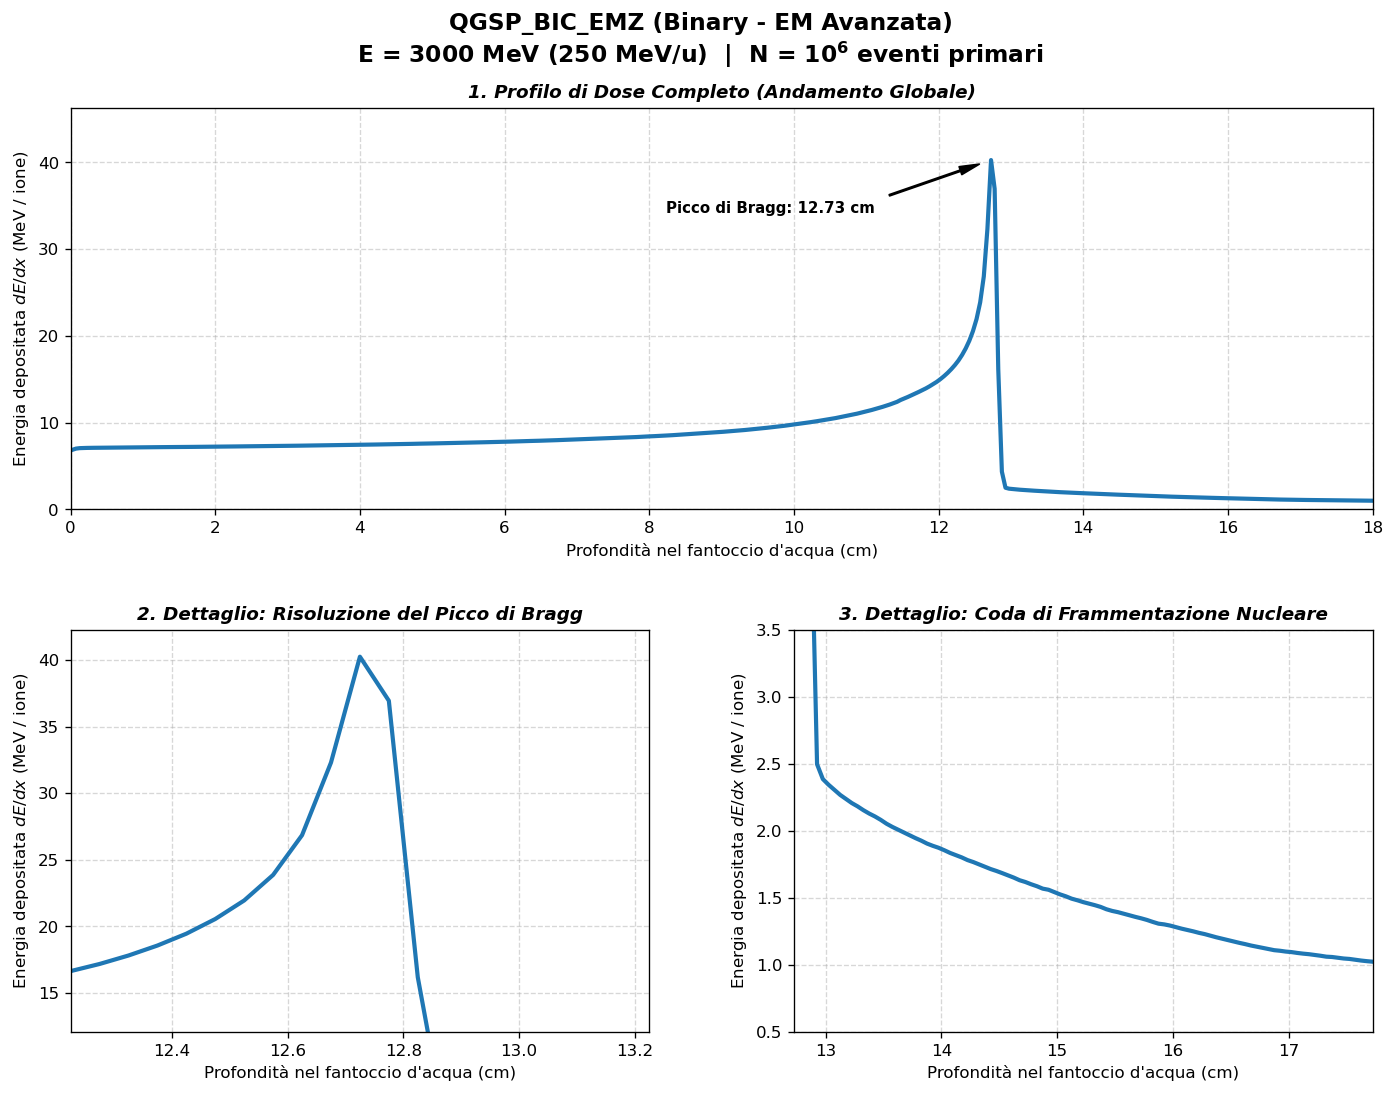
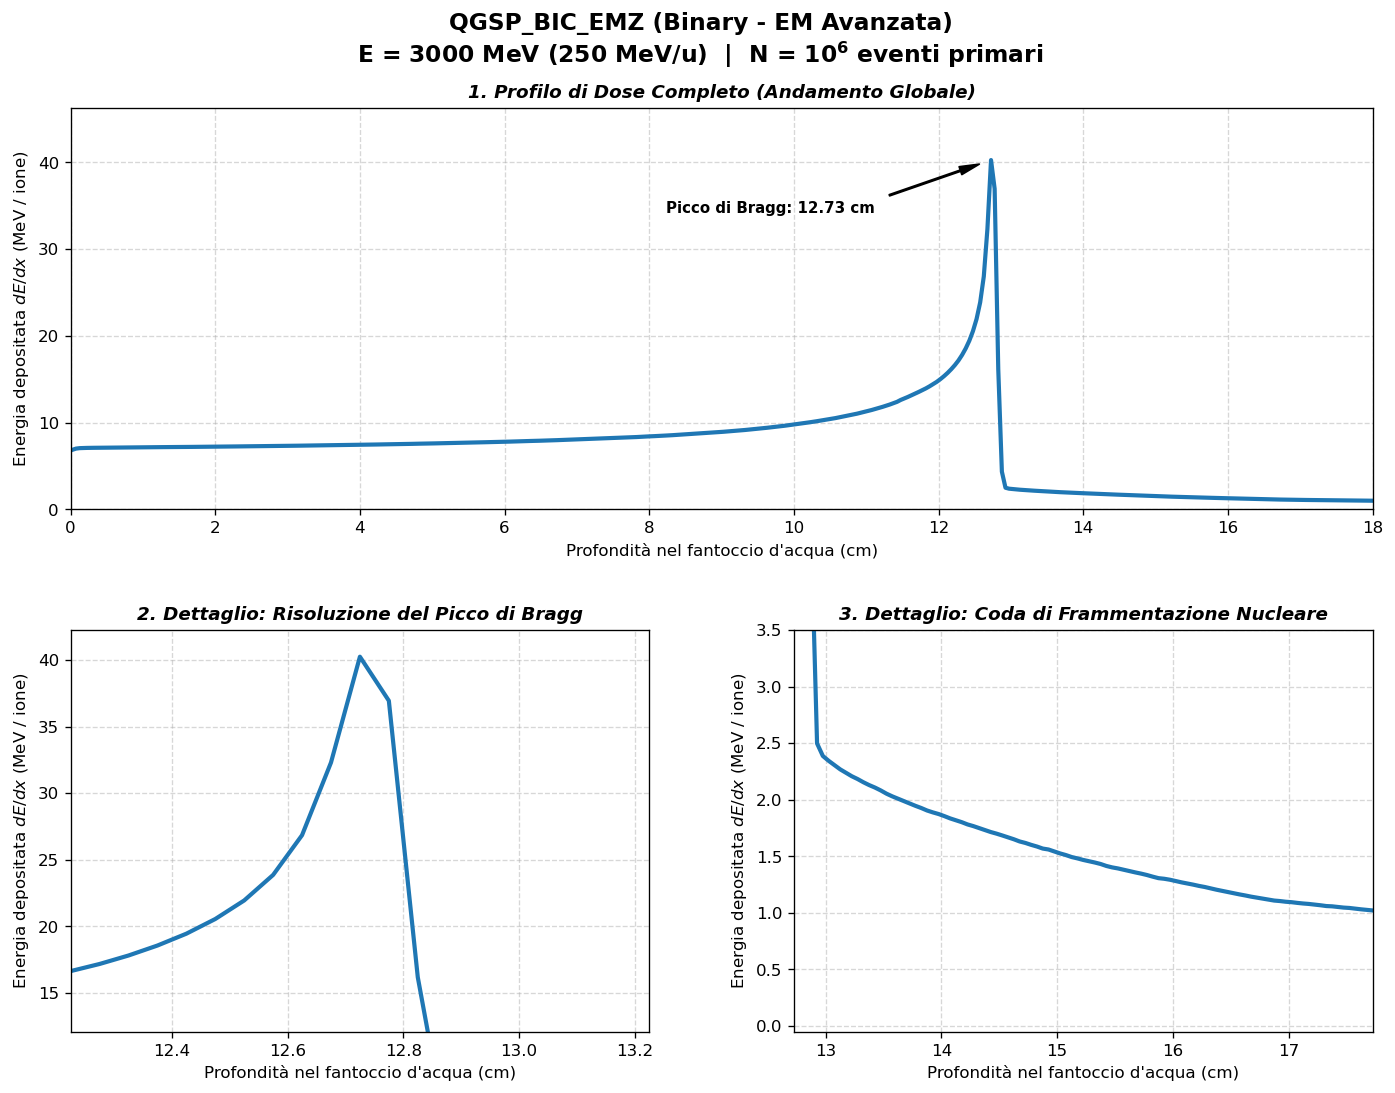
Add files via upload

diff --git a/AnaEx01/risultati/plot_bragg_3000.py b/AnaEx01/risultati/plot_bragg_3000.py
@@ -146,11 +146,11 @@ for file_short_name, config in files_config.items():
     if "noInelastic" in file_short_name:
         ax3.set_title("3. Dettaglio: Caduta post-picco (No Frammentazione)", fontsize=11, style='italic', fontweight='bold')
         ax3.set_xlim(peak_depth, peak_depth + 5.0)
-        ax3.set_ylim(0.5, 3.5)
+        ax3.set_ylim(-0.05, 3.5)
     else:
         ax3.set_title("3. Dettaglio: Coda di Frammentazione Nucleare", fontsize=11, style='italic', fontweight='bold')
         ax3.set_xlim(peak_depth, peak_depth + 5.0)
-        ax3.set_ylim(0.5, 3.5)
+        ax3.set_ylim(-0.05, 3.5)
         
     # Salvataggio simmetrico
     output_png = os.path.join(script_dir, config["filename"])
